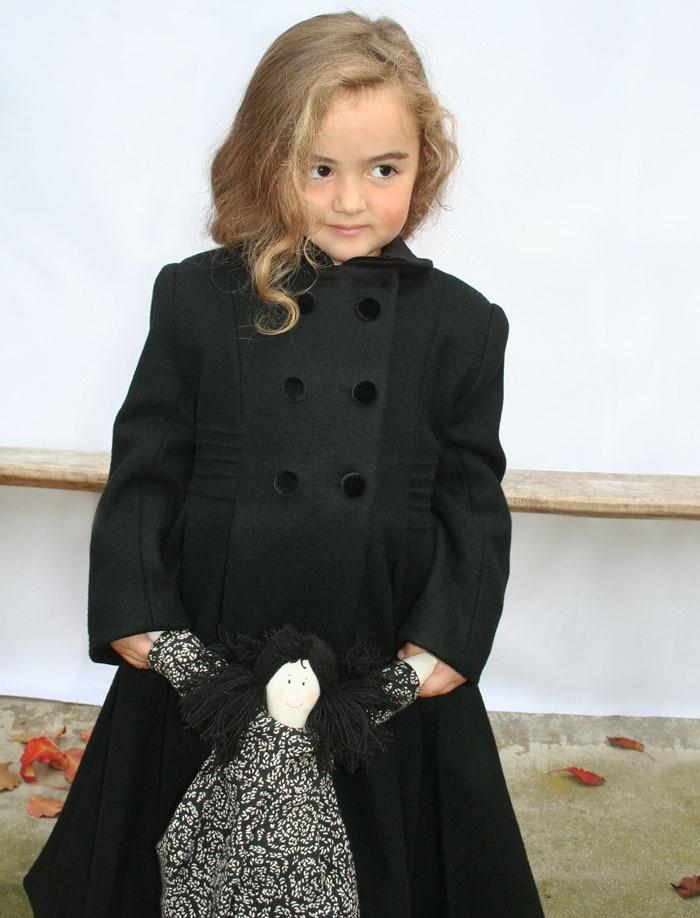
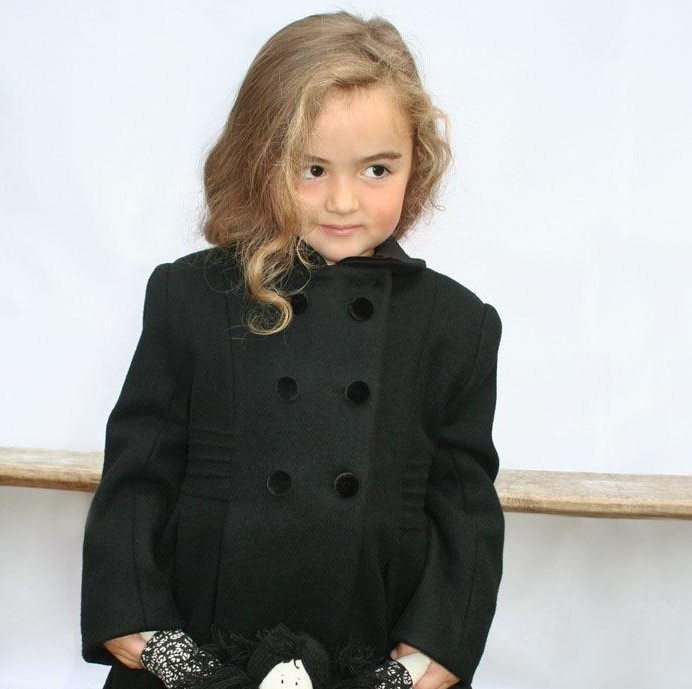
home page foto en add style

diff --git a/src/pages/Home.js b/src/pages/Home.js
@@ -1,27 +1,54 @@
-import { MDBCol, MDBContainer, MDBRow } from "mdbreact";
+import { MDBCol, MDBContainer, MDBIcon, MDBRow } from "mdbreact";
 import React from "react";
 import welkomCoatsForWomen from '../images/welcome/abdf6295852cb3fa42bb5b55556848a6.jpg';
 import welkomCoatsForMen from '../images/welcome/diy-cat-costumes-1565110063.jpg';
 import welkomCoatsForChilderen from '../images/welcome/JenniferKellyG-201635210035178721None.jpg';
+import welkomCoatsFkid2 from '../images/welcome/kids1.jpg';
 
 export function Home() {
     return (
         <MDBContainer fluid className="purple-gradient color-block-5 mb-3 mx-auto rounded-circle z-depth-1">
             <MDBRow>
-                <p>test</p>
+                <MDBCol lg={3} >
+                    <h1  className="red-text bg-dark flex-center">COATS FOR</h1>
+                </MDBCol>
+                <MDBCol lg={3}>
+                    <MDBIcon icon="check"/>   <p >Women's</p>
+                </MDBCol>
+            <MDBCol lg={3}>
+                    <MDBIcon icon="check"/> <p>Men's</p>
+            </MDBCol>
+                <MDBCol lg={3}>
+                    <MDBIcon icon="check"/>  <p>Kids</p>
+                </MDBCol>
+
+
             </MDBRow>
           <MDBRow>
-              <MDBCol lg={4} md={12} >
-                  <img src={welkomCoatsForWomen} className="img-fluid z-depth-1" alt="" />
+              <MDBCol lg={3} md={12} >
+
+                      <img src={welkomCoatsForMen} className="img-fluid z-depth-1" alt="" />
+
+
               </MDBCol>
-              <MDBCol lg={4} md={12} >
-                  <img src={welkomCoatsForMen} className="img-fluid z-depth-1-half"
+              <MDBCol lg={3} md={12} >
+                  <img src={welkomCoatsForWomen} className="img-fluid z-depth-1-half"
                        alt="" />
+
               </MDBCol>
-              <MDBCol lg={4} md={12} >
+              <MDBCol lg={3} md={12} >
                   <img src={welkomCoatsForChilderen} className="img-fluid z-depth-1-half"
                        alt="" />
+
               </MDBCol>
+              <MDBCol lg={3} md={12} >
+                  <img src={welkomCoatsFkid2} className="img-fluid z-depth-1-half"
+                       alt="" />
+
+              </MDBCol>
+              <MDBRow>
+
+              </MDBRow>
 
           </MDBRow>
         </MDBContainer>

diff --git a/src/App.css b/src/App.css
@@ -57,11 +57,20 @@ h3{
     text-align: center;
 }
 img{
-    width: 400px;
-    height: 500px;
+    width: auto;
+    height: auto;
     border-radius: 50px;
     padding: 5px;
     border: 3px solid #ddd;
+}
+
+nav{
+    display: flex;
+    justify-content: space-around;
+    min-height: 10vh;
+    align-items: center;
+    font-family: inter;
+    background-color: lightgrey;
 }
 .footer{
     font-family: cursive;
@@ -73,21 +82,14 @@ img{
     color: white;
     text-align: center;
 }
-nav{
-    display: flex;
-    justify-content: space-around;
-    min-height: 10vh;
-    align-items: center;
-    font-family: inter;
-    background-color: lightgrey;
-}
-
 nav .logo{
 
     font-size: 40px;
     font-weight: 700;
     text-transform: uppercase;
 }
+
+
 nav .nav-links{
     display: flex;
     justify-content: space-around;

diff --git a/src/components/NavBar.js b/src/components/NavBar.js
@@ -7,6 +7,7 @@ import { WOMEN } from "../pages/WOMEN";
 import { CHILDREN } from "../pages/CHILDREN";
 import { Home } from "../pages/Home";
 
+
 function NavBar() {
     const [open, setOpen]=useState(false);
 
@@ -15,7 +16,7 @@ function NavBar() {
             <div>
 
                 <nav>
-                    <div className="logo" onAnimationStart={onscroll}>Shopping</div>
+                    <div className="logo">Shopping</div>
                     <ul className="nav-links" style={{transform: open ? "translateX(0px)" :"translateX(-500px)"}}>
 
                         <li>
